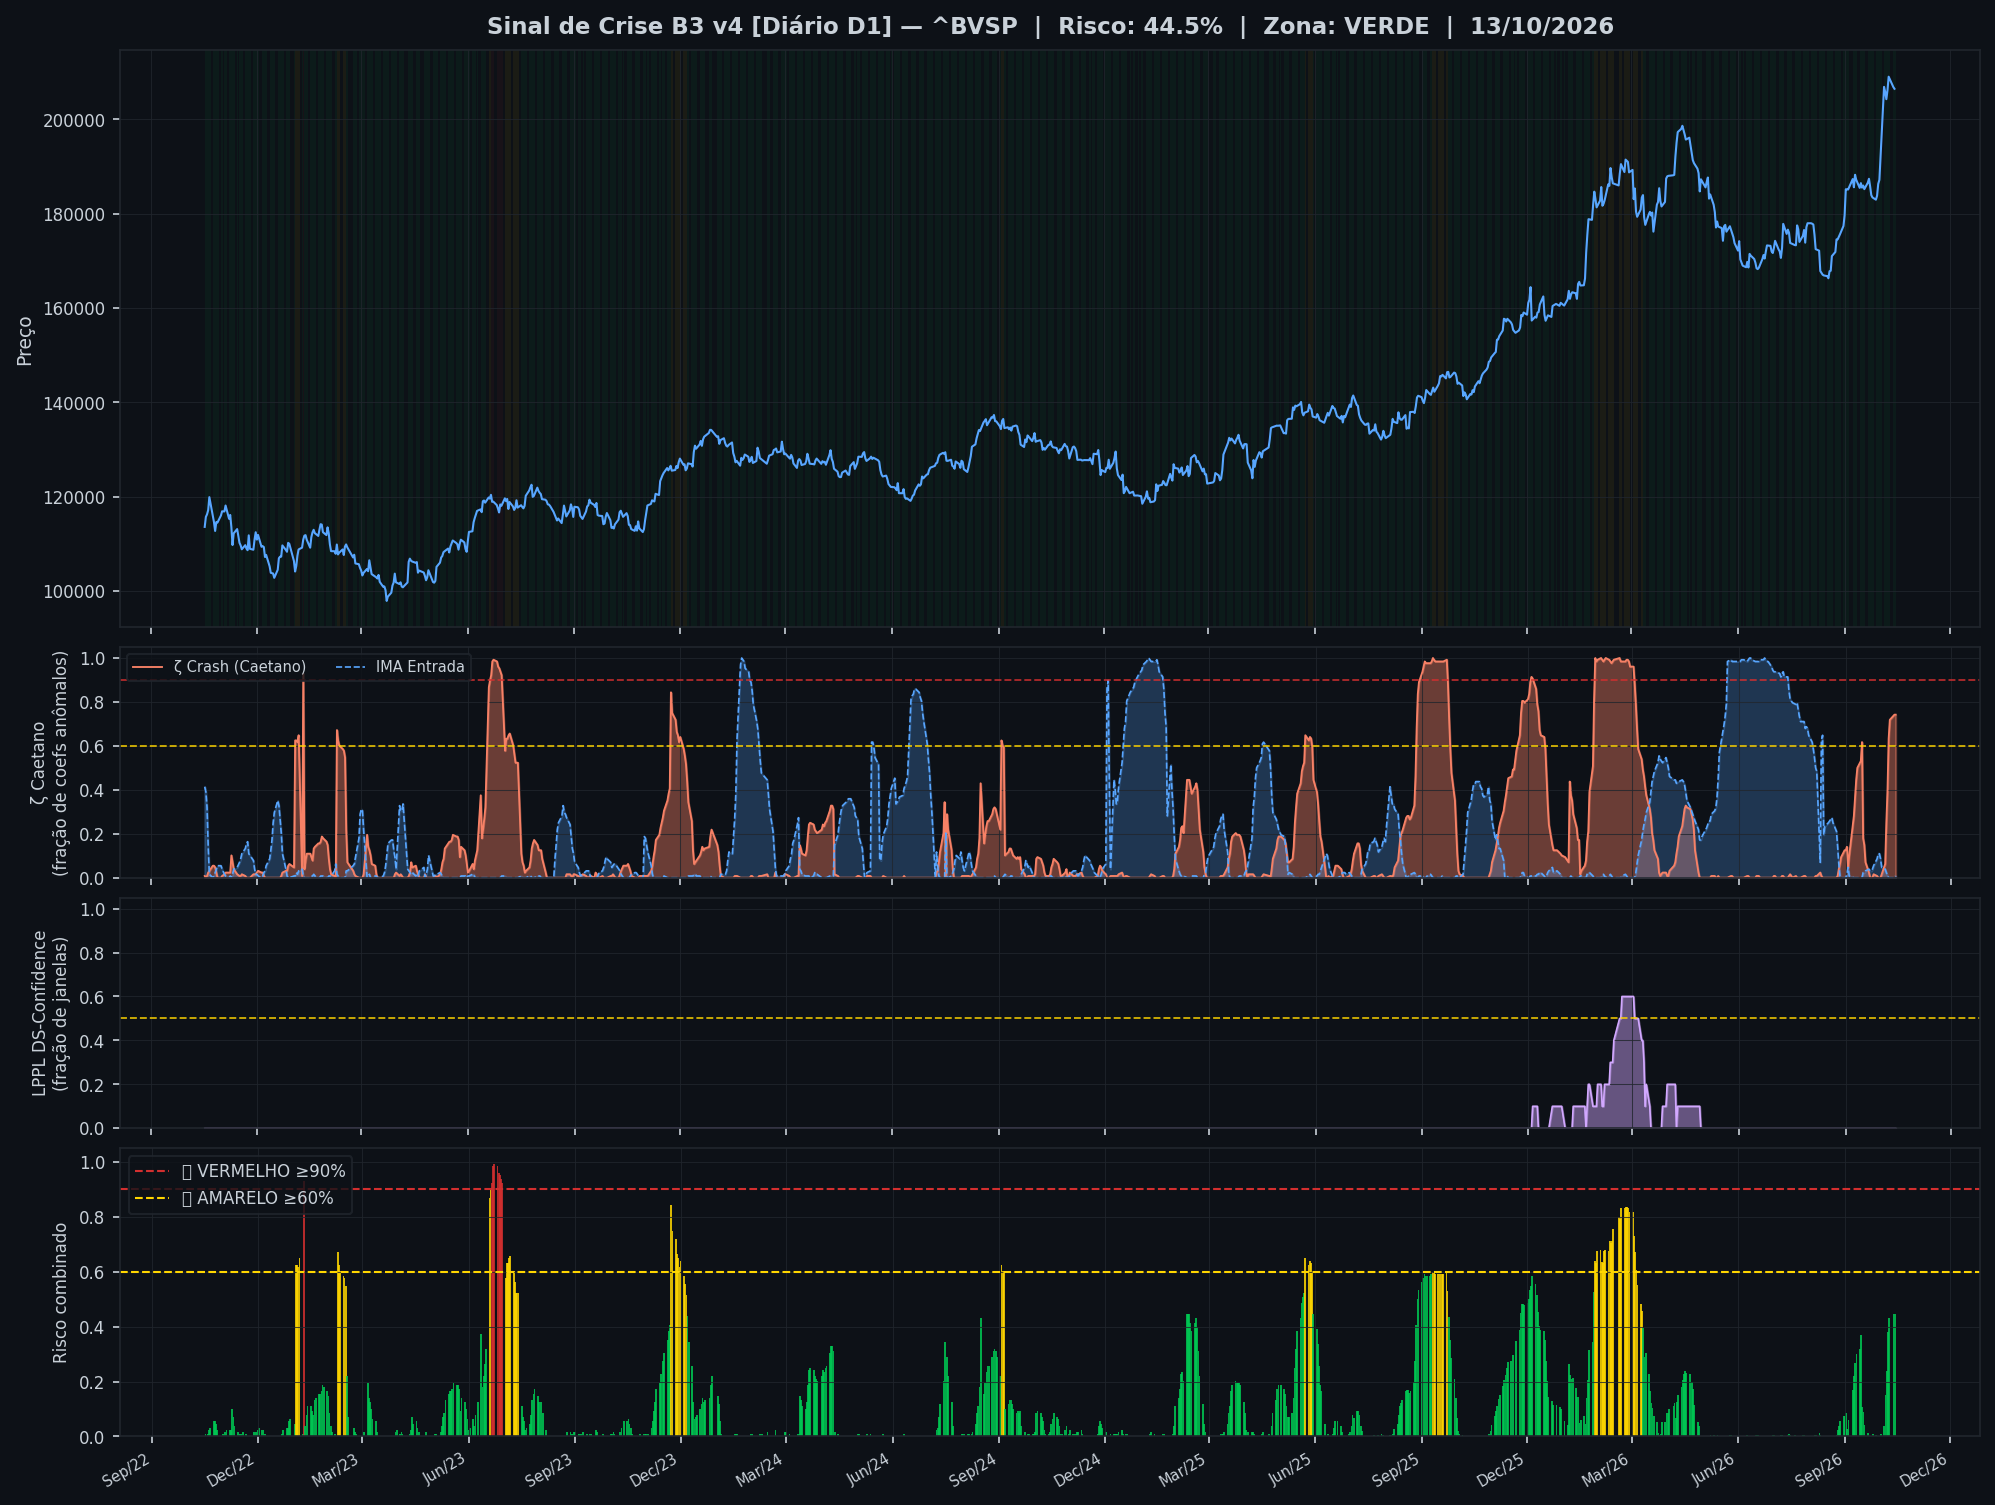
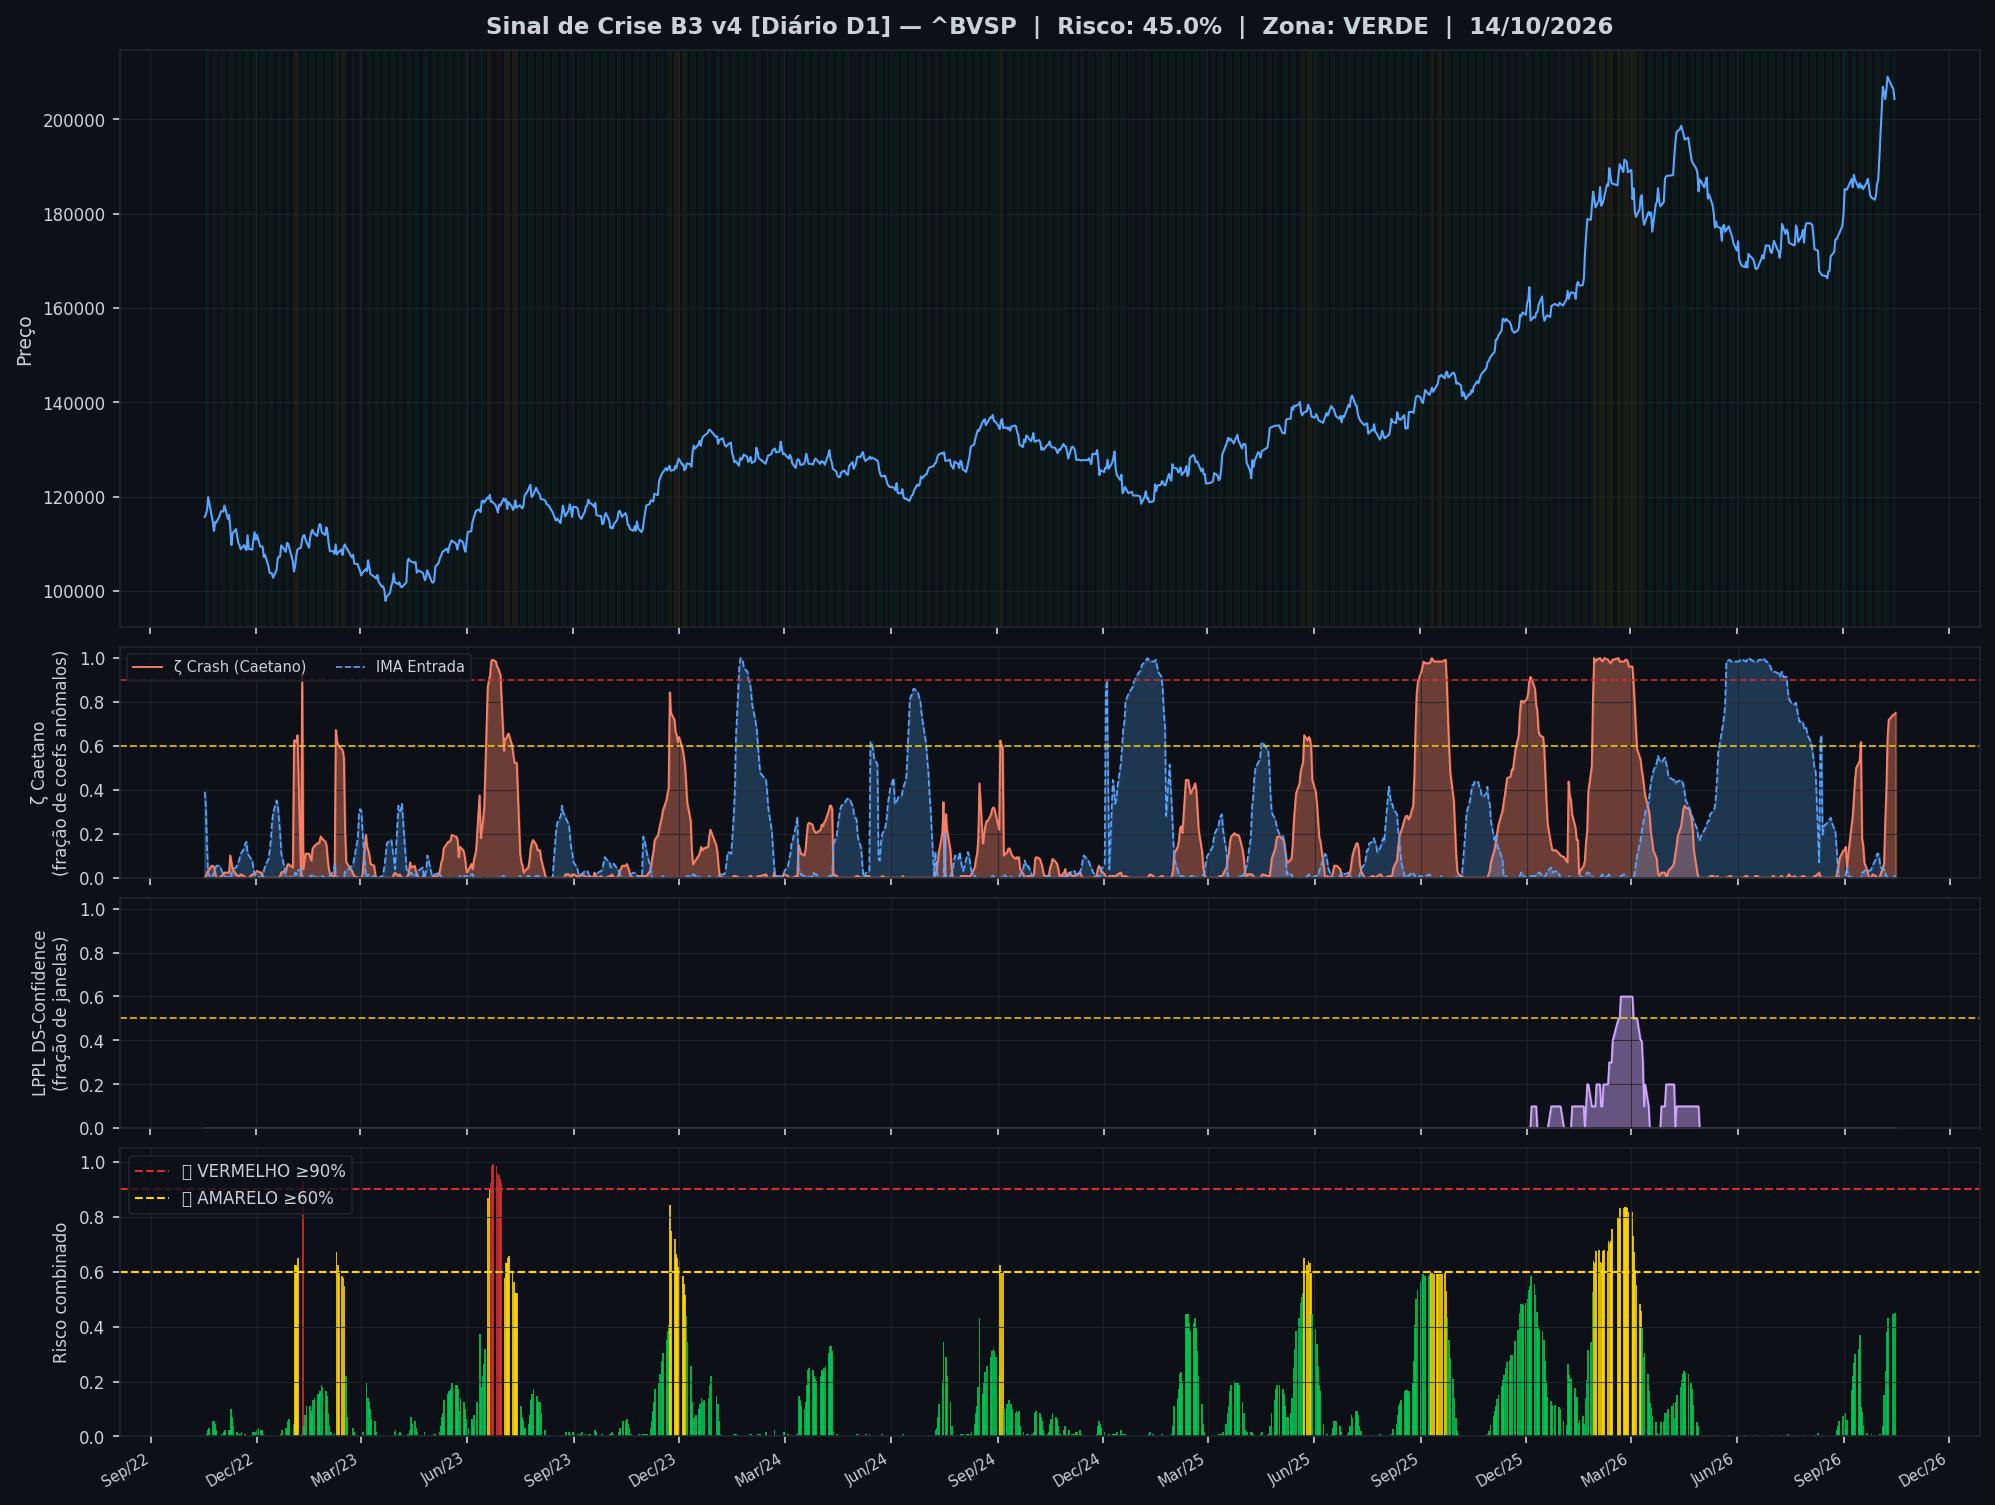
🤖 Auto: Sinal 15/10/2026 19:00

diff --git a/content/diario/2026-10-14.md b/content/diario/2026-10-14.md
@@ -1,0 +1,102 @@
+---
+title: "🟢 Diário 14/10/2026 — VERDE"
+date: 2026-10-15
+tags: [diario]
+---
+
+> [!success] 🟢 **VERDE** — Risco 45% · ＝ +0 p.p. vs leitura anterior
+> `█████████░░░░░░░░░░░`
+> Mercado sem sinais relevantes de estresse.
+
+
+| Indicador | Valor |
+|---|---|
+| 🔴 ζ Crash — severidade da queda em curso | **75%** |
+| 🔵 ζ Entrada — estrutura de fundo | 0% |
+| 🫧 LPPL DS-Confidence | 0% |
+| 📊 Ibovespa | 204.324 pts |
+
+![Gráfico do sinal](../graficos/sinal_diario.png)
+
+## Últimos 30 pregões
+
+| Data | Zona | Risco | IMA Crash | Entrada | LPPL |
+|---|---|---|---|---|---|
+| 2026-10-14 21:00 | 🟢 VERDE | **45%** | 75% | 0% | 0% |
+| 2026-10-13 21:00 | 🟢 VERDE | **45%** | 74% | 1% | 0% |
+| 2026-10-12 21:00 | 🟢 VERDE | **45%** | 74% | 0% | 0% |
+| 2026-10-08 21:00 | 🟢 VERDE | **43%** | 72% | 0% | 0% |
+| 2026-10-07 21:00 | 🟢 VERDE | **38%** | 63% | 0% | 0% |
+| 2026-10-06 21:00 | 🟢 VERDE | **24%** | 40% | 1% | 0% |
+| 2026-10-05 21:00 | 🟢 VERDE | **15%** | 25% | 2% | 0% |
+| 2026-10-04 21:00 | 🟢 VERDE | **4%** | 6% | 4% | 0% |
+| 2026-10-01 21:00 | 🟢 VERDE | **1%** | 2% | 5% | 0% |
+| 2026-09-30 21:00 | 🟢 VERDE | **0%** | 0% | 9% | 0% |
+| 2026-09-29 21:00 | 🟢 VERDE | **0%** | 0% | 11% | 0% |
+| 2026-09-28 21:00 | 🟢 VERDE | **0%** | 0% | 11% | 0% |
+| 2026-09-27 21:00 | 🟢 VERDE | **0%** | 1% | 9% | 0% |
+| 2026-09-24 21:00 | 🟢 VERDE | **1%** | 2% | 5% | 0% |
+| 2026-09-23 21:00 | 🟢 VERDE | **0%** | 0% | 4% | 0% |
+| 2026-09-22 21:00 | 🟢 VERDE | **0%** | 0% | 3% | 0% |
+| 2026-09-21 21:00 | 🟢 VERDE | **0%** | 0% | 3% | 0% |
+| 2026-09-20 21:00 | 🟢 VERDE | **1%** | 2% | 4% | 0% |
+| 2026-09-17 21:00 | 🟢 VERDE | **4%** | 7% | 3% | 0% |
+| 2026-09-16 21:00 | 🟢 VERDE | **9%** | 15% | 2% | 0% |
+| 2026-09-15 21:00 | 🟢 VERDE | **11%** | 18% | 2% | 0% |
+| 2026-09-14 21:00 | 🟢 VERDE | **37%** | 62% | 0% | 0% |
+| 2026-09-13 21:00 | 🟢 VERDE | **32%** | 53% | 0% | 0% |
+| 2026-09-10 21:00 | 🟢 VERDE | **30%** | 50% | 0% | 0% |
+| 2026-09-09 21:00 | 🟢 VERDE | **27%** | 45% | 0% | 0% |
+| 2026-09-08 21:00 | 🟢 VERDE | **22%** | 37% | 0% | 0% |
+| 2026-09-07 21:00 | 🟢 VERDE | **17%** | 28% | 0% | 0% |
+| 2026-09-03 21:00 | 🟢 VERDE | **6%** | 10% | 1% | 0% |
+| 2026-09-02 21:00 | 🟢 VERDE | **3%** | 5% | 5% | 0% |
+| 2026-09-01 21:00 | 🟢 VERDE | **8%** | 14% | 2% | 0% |
+
+## Monitor Multi-Ativo
+
+**0% dos ativos em tensão** (0🔴 0🟡) — quanto mais ativos disparam juntos, mais confiável o sinal.
+
+| Zona | Ativo | Setor | IMA Crash | IMA Entrada |
+|---|---|---|---|---|
+| 🟢 | **ITAUUNIBANCO** | Financeiro | 0.0% | 93.8% |
+| 🟢 | **PETROBRAS** | Petróleo | 0.0% | 93.8% |
+| 🟢 | **VALE** | Mineração | 0.0% | 93.8% |
+| 🟢 | **PETROBRAS** | Petróleo | 0.0% | 93.8% |
+| 🟢 | **AXIA ENERGIA** | Energia | 0.0% | 93.8% |
+| 🟢 | **SABESP** | Saneamento | 0.0% | 93.8% |
+| 🟢 | **B3** | Financeiro | 0.0% | 93.8% |
+| 🟢 | **BRADESCO** | Financeiro | 0.0% | 93.8% |
+| 🟢 | **ITAUSA** | Financeiro | 0.0% | 93.8% |
+| 🟢 | **BTGP BANCO** | Financeiro | 0.0% | 93.8% |
+| 🟢 | **WEG** | Industrial | 0.0% | 93.8% |
+| 🟢 | **BRASIL** | Financeiro | 0.0% | 93.8% |
+| 🟢 | **AMBEV S/A** | Consumo | 0.0% | 93.8% |
+| 🟢 | **EMBRAER** | Outros | 0.0% | 93.8% |
+| 🟢 | **EQUATORIAL** | Energia | 0.0% | 93.8% |
+| 🟢 | **ENEVA** | Energia | 0.0% | 93.8% |
+| 🟢 | **COPEL** | Energia | 0.0% | 93.8% |
+| 🟢 | **PRIO** | Petróleo | 0.0% | 93.8% |
+| 🟢 | **LOCALIZA** | Aluguel | 0.0% | 93.8% |
+| 🟢 | **REDE D OR** | Saúde | 0.0% | 93.8% |
+| 🟢 | **VIBRA** | Energia | 0.0% | 93.8% |
+| 🟢 | **ULTRAPAR** | Outros | 0.0% | 93.8% |
+| 🟢 | **GERDAU** | Siderurgia | 0.0% | 93.8% |
+| 🟢 | **USD/BRL** | Câmbio | 0.0% | 93.8% |
+
+![Monitor multi-ativo](../graficos/multi_diario.png)
+
+*Página atualizada em 15/10/2026 19:00 BRT (leitura da barra de 2026-10-14 BRT).*
+
+> [!info]- Como interpretar (clique para expandir)
+> - **ζ Crash**: fração dos coeficientes wavelet acima do corte (Caetano & Yoneyama 2009). Escala absoluta: ζ=0,90 = 90% dos coeficientes anômalos — historicamente, quedas com ζ≥0,90 foram mais fundas e mais longas. **Mede a severidade do movimento em curso, não prevê o início da queda.**
+> - **ζ Entrada**: coeficientes negativos além do corte — estrutura de fundo, possível região de compra.
+> - **LPPL DS-Confidence**: fração de janelas (60–504 pregões) em que o modelo de bolha de Sornette produz um ajuste válido. 30% já é relevante; acima de 50% é forte evidência de estrutura de bolha.
+> - **Zonas com histerese**: o sinal só muda de zona ao cruzar o limiar de entrada, e só volta ao cruzar o de saída — evita flip-flop diário.
+
+
+---
+*Sinal de Crise B3 v4 · IMA Wavelet ([Caetano & Yoneyama, Physica-A 2007](https://doi.org/10.1016/j.physa.2007.03.054)) + LPPL DS-Confidence (Sornette, ETH-Zurich) · [Metodologia](metodologia) · [Histórico](historico)*
+
+> [!quote]- Aviso
+> Estudo acadêmico. Não constitui recomendação de investimento.

diff --git a/content/index.md b/content/index.md
@@ -8,19 +8,19 @@ tags: [home]
 
 Monitoramento diário e intraday do Ibovespa — **IMA Wavelet** (Prof. Marco Antonio Leonel Caetano, ITA/INSPER) + **LPPL DS-Confidence** (Prof. Didier Sornette, ETH-Zurich).
 
-*Última atualização: 15/10/2026 17:30 BRT · ^BVSP · Intraday 15min · v4*
+*Última atualização: 15/10/2026 19:00 BRT · ^BVSP · Diário D1 · v4*
 
-> [!success] 🟢 **VERDE** — Risco 1% · ▼ -2 p.p. vs leitura anterior
-> `░░░░░░░░░░░░░░░░░░░░`
+> [!success] 🟢 **VERDE** — Risco 45% · ＝ +0 p.p. vs leitura anterior
+> `█████████░░░░░░░░░░░`
 > Mercado sem sinais relevantes de estresse.
 
 
 | Indicador | Valor |
 |---|---|
-| 🔴 ζ Crash — severidade da queda em curso | **1%** |
-| 🔵 ζ Entrada — estrutura de fundo | 9% |
+| 🔴 ζ Crash — severidade da queda em curso | **75%** |
+| 🔵 ζ Entrada — estrutura de fundo | 0% |
 | 🫧 LPPL DS-Confidence | 0% |
-| 📊 Ibovespa | 204.168 pts |
+| 📊 Ibovespa | 204.324 pts |
 
 **Multi-ativo:** 0% em tensão (0🔴 0🟡 de 24 ativos)
 
@@ -32,8 +32,13 @@ Monitoramento diário e intraday do Ibovespa — **IMA Wavelet** (Prof. Marco An
 
 | Data | Zona | Risco | IMA | LPPL |
 |---|---|---|---|---|
-| [15 Oct 2026](diario/2026-10-15) | 🟢 VERDE | **1%** | 1% | 0% |
-| [14 Oct 2026](diario/2026-10-14) | 🟢 VERDE | **0%** | 0% | 0% |
+| [14 Oct 2026](diario/2026-10-14) | 🟢 VERDE | **45%** | 75% | 0% |
+| [13 Oct 2026](diario/2026-10-13) | 🟢 VERDE | **45%** | 74% | 0% |
+| [12 Oct 2026](diario/2026-10-12) | 🟢 VERDE | **45%** | 74% | 0% |
+| [08 Oct 2026](diario/2026-10-08) | 🟢 VERDE | **43%** | 72% | 0% |
+| [07 Oct 2026](diario/2026-10-07) | 🟢 VERDE | **38%** | 63% | 0% |
+| [06 Oct 2026](diario/2026-10-06) | 🟢 VERDE | **24%** | 40% | 0% |
+| [05 Oct 2026](diario/2026-10-05) | 🟢 VERDE | **15%** | 25% | 0% |
 
 ## Navegação
 

diff --git a/content/historico.md b/content/historico.md
@@ -7,6 +7,7 @@ tags: [historico]
 
 | Data | Modo | Zona | Risco | IMA | LPPL |
 |---|---|---|---|---|---|
+| 2026-10-14 | diario | 🟢 VERDE | 45% | 75% | 0% |
 | 2026-10-15 16:45 | intraday | 🟢 VERDE | 1% | 1% | 0% |
 | 2026-10-15 16:30 | intraday | 🟢 VERDE | 2% | 2% | 0% |
 | 2026-10-15 16:15 | intraday | 🟢 VERDE | 2% | 2% | 0% |
